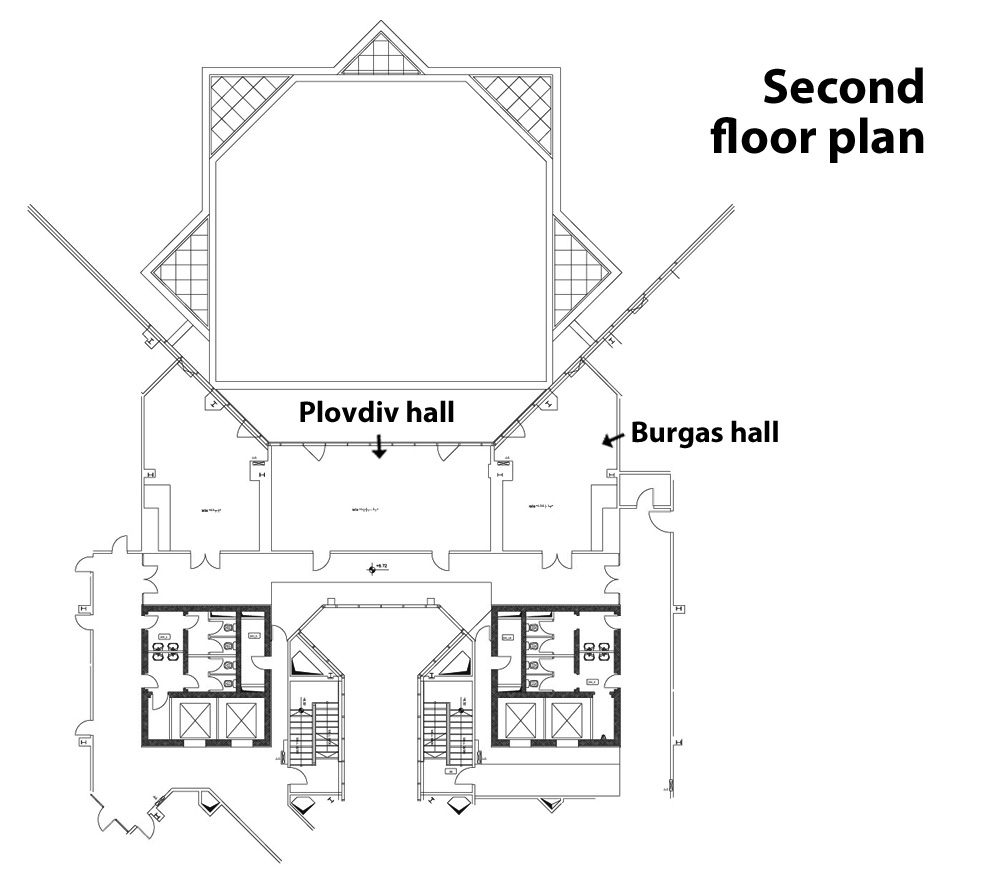
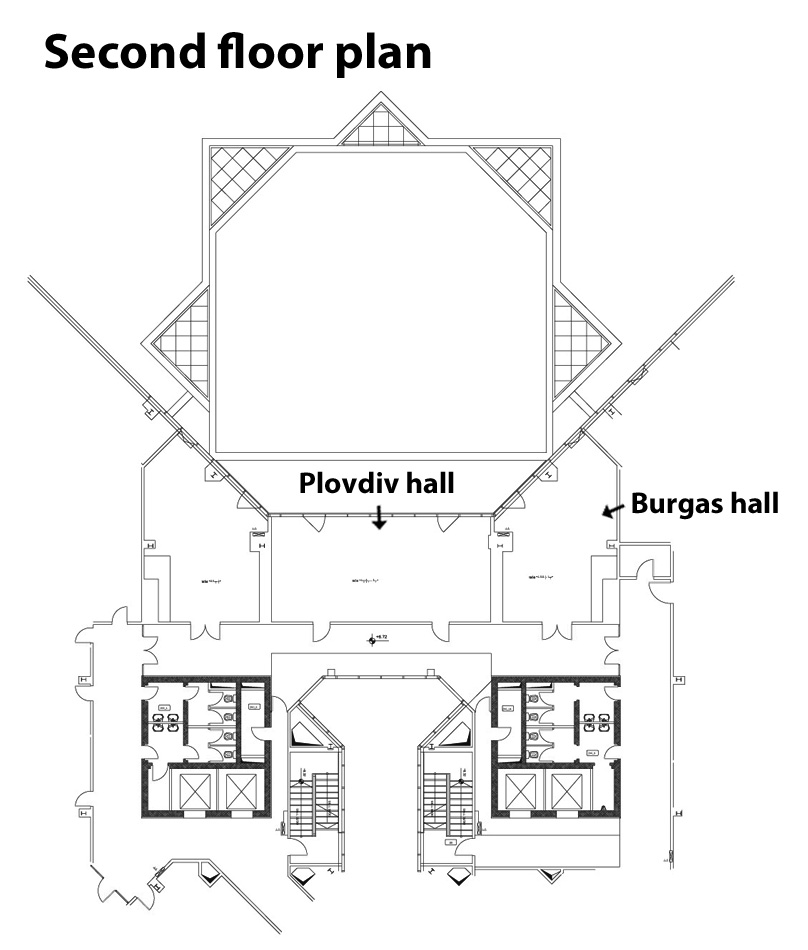
new map and image display fixes from Krasimir

diff --git a/css/styles.css b/css/styles.css
@@ -780,3 +780,7 @@ a.button:hover { opacity: 0.8; }
 	box-shadow:			0px 0px 1px 1px #999;
 	margin: 0 1em 2em 0;
 }
+
+p img {
+	max-width: 100%;
+}
